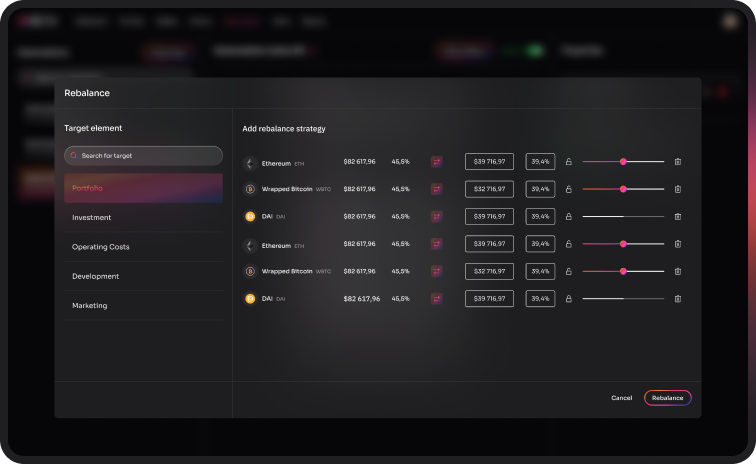
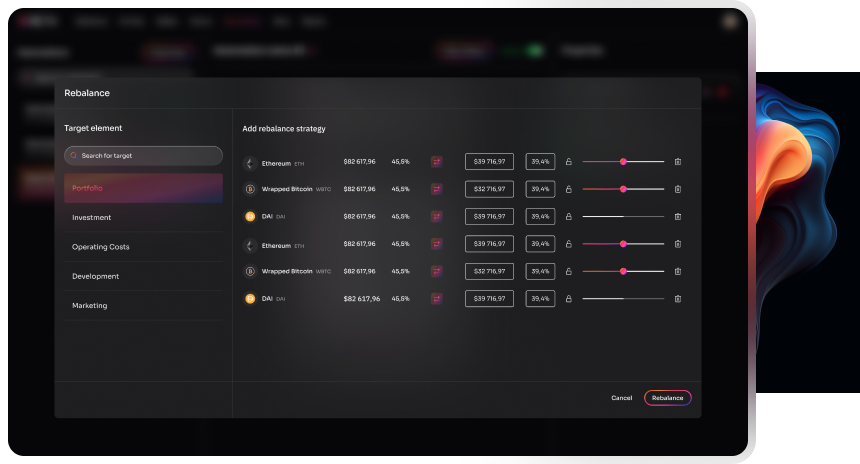
Add gradients to features images

diff --git a/src/components/FeaturesSection/FeaturesSection.tsx b/src/components/FeaturesSection/FeaturesSection.tsx
@@ -6,7 +6,6 @@ import features from '../../utils/features'
 import Feature from './Feature'
 import useScreenSize from '../../hooks/useScreenSize'
 import FeaturesSectionHeading from './FeaturesSectionHeading'
-import { floatAnimation } from '../../utils/animations'
 
 const FeaturesSectionContent = styled.div`
     position: relative;
@@ -31,6 +30,7 @@ const ImageWrapper = styled.div`
     justify-content: flex-start;
     align-items: flex-start;
 
+    border: 2px yellow solid;
     @media (max-width: 766px) {
         position: static;
         width: 100%;
@@ -41,35 +41,11 @@ const ImageWrapper = styled.div`
 const Image = styled.img`
     position: sticky;
     top: 20%;
-    width: 100%;
+    width: 110%;
     z-index: 1;
-`
 
-const ImageGradient = styled.img`
-    position: sticky;
-    top: 200px;
-    max-width: 250px;
-    width: 60%;
-    z-index: 0;
-    margin-top: 90px;
-    margin-left: -180px;
-    animation: ${floatAnimation} 7s ease-in-out infinite;
-
-    @media (max-width: 1100px) {
-        top: 159px;
-        margin-top: 70px;
-        width: 50%;
-        margin-left: -170px;
-    }
-
-    @media (max-width: 980px) {
-        top: 120px;
-        margin-left: -170px;
-    }
-
-    @media (max-width: 860px) {
-        top: 110px;
-        margin-left: -140px;
+    @media (min-width: 1500px) {
+        margin-left: 30px;
     }
 `
 
@@ -131,14 +107,8 @@ const FeaturesSection = () => {
                         <ImageWrapper>
                             <Image
                                 src={`Feature${getInViewImageIndex() + 1}.png`}
-                                alt="change it"
+                                alt="feature"
                                 ref={imageRef}
-                            />
-                            <ImageGradient
-                                src={`Feature${
-                                    getInViewImageIndex() + 1
-                                }Gradient.png`}
-                                alt="gradient"
                             />
                         </ImageWrapper>
                     </motion.div>
@@ -166,7 +136,7 @@ const FeaturesSection = () => {
                                 description={feature.description}
                                 icon={feature.icon}
                                 refValue={imageContainers[index].ref} // Use the corresponding image container ref
-                                imageUrl={feature.imageUrl}
+                                imageUrlMobile={feature.imageUrlMobile}
                             />
                         </motion.div>
                     ))}

diff --git a/src/utils/features.ts b/src/utils/features.ts
@@ -9,7 +9,7 @@ const features = [
         description:
             'Engage in auto-arbitrage, initiate volume generation, formulate yield farming strategies, and auto-rebalance your portfolio, ensuring optimal performance and risk mitigation.',
         imageUrl: 'Feature1.png',
-        gradientUrl: '/Feature1Gradient.png',
+        imageUrlMobile: '/Feature1Mobile.png',
         icon: StrategicAutomationIcon,
         offset: 1,
     },
@@ -19,7 +19,7 @@ const features = [
         description:
             'With a sophisticated yet intuitive interface, manage your digital assets by setting advanced parameters, defining portfolio structures, and monitoring real-time performance, ensuring strategic alignment with your financial goals.',
         imageUrl: 'Feature2.png',
-        gradientUrl: 'Feature2Gradient.png',
+        imageUrlMobile: 'Feature2Mobile.png',
         icon: StreamlinePortfolioIcon,
         offset: 2,
     },
@@ -29,7 +29,7 @@ const features = [
         description:
             'Uncover opportunities and gauge market pulse with live data, sentiment analysis, and a consolidated overview of your asset holdings, driving informed and timely decision-making.',
         imageUrl: 'Feature3.png',
-        gradientUrl: 'Feature3Gradient.png',
+        imageUrlMobile: 'Feature3Mobile.png',
         icon: MarketInsightsIcon,
         offset: 3,
     },

diff --git a/src/components/FeaturesSection/Feature.tsx b/src/components/FeaturesSection/Feature.tsx
@@ -9,7 +9,7 @@ interface FeatureProps {
     icon: () => JSX.Element
     // eslint-disable-next-line @typescript-eslint/no-explicit-any
     refValue: any
-    imageUrl: string
+    imageUrlMobile: string
 }
 
 const Feature = ({
@@ -17,13 +17,13 @@ const Feature = ({
     description,
     icon,
     refValue,
-    imageUrl,
+    imageUrlMobile,
 }: FeatureProps) => {
     const { isScreenSmall } = useScreenSize()
 
     return (
         <>
-            {isScreenSmall && <FeatureImage src={imageUrl} alt={title} />}
+            {isScreenSmall && <FeatureImage src={imageUrlMobile} alt={title} />}
             <TextSection ref={refValue}>
                 {icon()}
                 <FeatureTitle>
